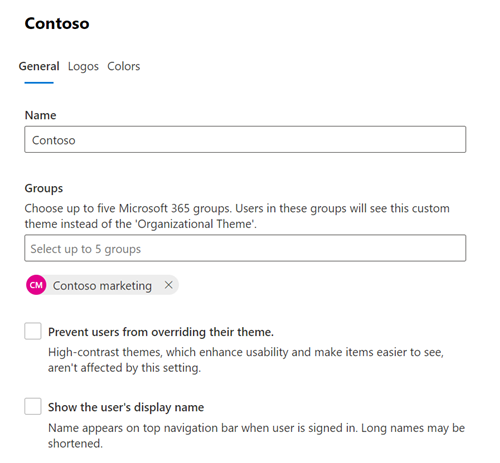
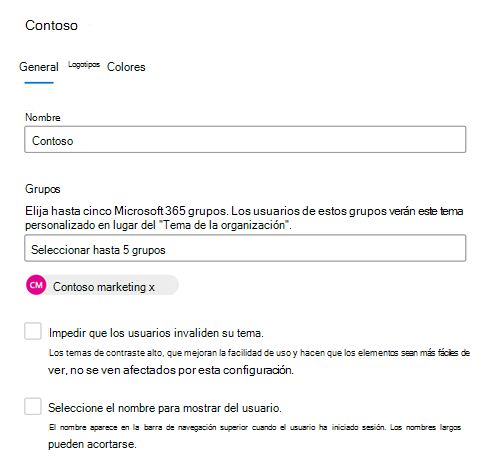
commit translated contents

diff --git a/microsoft-365/compliance/apply-sensitivity-label-automatically.md b/microsoft-365/compliance/apply-sensitivity-label-automatically.md
@@ -16,12 +16,12 @@ search.appverid:
 - MOE150
 - MET150
 description: Al crear una etiqueta de confidencialidad, puede asignar automáticamente una etiqueta a archivos o correos electrónicos, o bien puede pedir a los usuarios que seleccionen la etiqueta recomendada.
-ms.openlocfilehash: 6b74c36707b9fe1fdbe00eb7058554b54ec95755
-ms.sourcegitcommit: 6749455c52b0f98a92f6fffbc2bb86caf3538bd8
+ms.openlocfilehash: 2f873482dc351050a87993420e718f6de87ac218
+ms.sourcegitcommit: 48195345b21b409b175d68acdc25d9f2fc4fc5f1
 ms.translationtype: HT
 ms.contentlocale: es-ES
-ms.lasthandoff: 06/29/2021
-ms.locfileid: "53194774"
+ms.lasthandoff: 06/30/2021
+ms.locfileid: "53227536"
 ---
 # <a name="apply-a-sensitivity-label-to-content-automatically"></a>Aplicar automáticamente una etiqueta de confidencialidad al contenido
 
@@ -44,20 +44,20 @@ Si el contenido se ha etiquetado manualmente, dicha etiqueta nunca se reemplazar
 
 Hay dos métodos diferentes para aplicar automáticamente una etiqueta de confidencialidad en contenido de Microsoft 365:
 
-- **Etiquetado del lado del cliente cuando los usuarios editan documentos o redactan mensajes de correo electrónico (y responden a ellos o los reenvían)**: use una etiqueta configurada para el etiquetado automático para archivos o correos electrónicos (Word, Excel, PowerPoint y Outlook). 
-    
-    Este método permite recomendar una etiqueta a los usuarios, así como aplicar una etiqueta automáticamente. Pero en ambos casos, el usuario decide si acepta o rechaza la etiqueta, para ayudar a garantizar el etiquetado correcto del contenido. Este etiquetado del lado del cliente tiene un retraso mínimo para los documentos porque la etiqueta se puede aplicar incluso antes de que se guarde el documento. Sin embargo, no todas las aplicaciones cliente son compatibles con el etiquetado automático. Esta funcionalidad es compatible con el cliente de etiquetado unificado de Azure Information Protection y [algunas versiones de Office](sensitivity-labels-office-apps.md#support-for-sensitivity-label-capabilities-in-apps). 
-    
+- **Etiquetado del lado del cliente cuando los usuarios editan documentos o redactan mensajes de correo electrónico (y responden a ellos o los reenvían)**: use una etiqueta configurada para el etiquetado automático para archivos o correos electrónicos (Word, Excel, PowerPoint y Outlook).
+
+    Este método permite recomendar una etiqueta a los usuarios, así como aplicar una etiqueta automáticamente. Pero en ambos casos, el usuario decide si acepta o rechaza la etiqueta, para ayudar a garantizar el etiquetado correcto del contenido. Este etiquetado del lado del cliente tiene un retraso mínimo para los documentos porque la etiqueta se puede aplicar incluso antes de que se guarde el documento. Sin embargo, no todas las aplicaciones cliente son compatibles con el etiquetado automático. Esta funcionalidad es compatible con el cliente de etiquetado unificado de Azure Information Protection y [algunas versiones de Office](sensitivity-labels-office-apps.md#support-for-sensitivity-label-capabilities-in-apps).
+
     Para obtener instrucciones de configuración, consulte [Cómo configurar el etiquetado automático en aplicaciones de Office](#how-to-configure-auto-labeling-for-office-apps) en esta página.
 
-- **Etiquetas del lado de servicio cuando el contenido ya está guardado (en SharePoint o en OneDrive) o enviado por correo electrónico (procesado por Exchange Online)**: use una directiva de etiquetado automático. 
-    
+- **Etiquetas del lado de servicio cuando el contenido ya está guardado (en SharePoint o en OneDrive) o enviado por correo electrónico (procesado por Exchange Online)**: use una directiva de etiquetado automático.
+
     También se conoce a este método como etiquetado automático para datos en reposo (documentos en SharePoint y OneDrive) y datos en tránsito (correo electrónico enviado o recibido por Exchange). En el caso de Exchange, no incluye correos electrónicos en reposo (buzones).
-    
+
     Ya que este etiquetado lo aplican los servicios en lugar de las aplicaciones, no tiene que preocuparse por qué aplicaciones tienen los usuarios y qué versión. Por lo tanto, esta funcionalidad está disponible inmediatamente en toda la organización y es adecuada para aplicar las etiquetas a cualquier escala. Las directivas de etiquetado automático no admiten el etiquetado recomendado, ya que el usuario no interactúa con el proceso de etiquetado. En su lugar, el administrador ejecuta las directivas en el modo de simulación para ayudarle a garantizar el etiquetado correcto del contenido antes de aplicar la etiqueta.
-    
+
     Vea las instrucciones de configuración en [Cómo configurar directivas de etiquetado automático para SharePoint, OneDrive y Exchange](#how-to-configure-auto-labeling-policies-for-sharepoint-onedrive-and-exchange) en esta página.
-    
+
     Específico para el etiquetado automático para SharePoint y OneDrive:
     - Son compatibles los archivos de Office para Word, PowerPoint y Excel. El formato Open XML (como .docx y .xlsx) es compatible, pero el formato de Microsoft Office 97-2003 (como .doc y .xls) no lo es.
         - Estos archivos se pueden etiquetar automáticamente en reposo antes o después de que se creen las políticas de etiquetado automático. Los archivos no se pueden etiquetar automáticamente si forman parte de una sesión abierta (el archivo está abierto).
@@ -77,7 +77,7 @@ Hay dos métodos diferentes para aplicar automáticamente una etiqueta de confid
         - Si la etiqueta está configurada para el [cifrado](encryption-sensitivity-labels.md), este cifrado no se aplica.
         - Si la etiqueta está configurada para aplicar [marcas dinámicas](sensitivity-labels-office-apps.md#dynamic-markings-with-variables), tenga en cuenta que esto puede afectar a los nombres de las personas externas a su organización.
     - Cuando la etiqueta aplica cifrado, el [emisor de la administración de derechos y el propietario la administración de derechos](/azure/information-protection/configure-usage-rights#rights-management-issuer-and-rights-management-owner) es la persona que envía el correo electrónico. Actualmente, no existe una forma de establecer un propietario de Rights Manager para todos los mensajes de correo electrónico entrantes que se cifran automáticamente.
-    
+
 
 ## <a name="compare-auto-labeling-for-office-apps-with-auto-labeling-policies"></a>Comparar el etiquetado automático de las aplicaciones de Office con las directivas de etiquetado automático
 
@@ -115,7 +115,7 @@ Para obtener más información sobre las etiquetas principales y las subetiqueta
 
 El etiquetado automático en las aplicaciones de Office para Windows es compatible con el cliente de etiquetado unificado de Azure Information Protection. Para las etiquetas incorporadas en las aplicaciones de Office, esta funcionalidad se encuentra en [diferentes fases de disponibilidad en las distintas aplicaciones](sensitivity-labels-office-apps.md#support-for-sensitivity-label-capabilities-in-apps).
 
-Los ajustes de etiquetado automático para las aplicaciones de Office están disponibles al [crear o editar una etiqueta de confidencialidad](create-sensitivity-labels.md). Asegúrese de que **Archivos y mensajes de correo electrónico** está seleccionada para el ámbito de la etiqueta: 
+Los ajustes de etiquetado automático para las aplicaciones de Office están disponibles al [crear o editar una etiqueta de confidencialidad](create-sensitivity-labels.md). Asegúrese de que **Archivos y mensajes de correo electrónico** está seleccionada para el ámbito de la etiqueta:
 
 ![Opciones de ámbito de etiquetas de confidencialidad para archivos y mensajes de correo electrónico](../media/filesandemails-scope-options-sensitivity-label.png)
 
@@ -142,7 +142,7 @@ Para obtener más información sobre estas opciones, consulte las siguientes ins
 Además, de la misma manera que ocurre con la configuración de directiva DLP, puede elegir si una condición debe detectar todos los tipos de información confidencial o solo uno de ellos. Y para hacer que las condiciones sean más flexibles o complejas, puede agregar [grupos y usar operadores lógicos entre los grupos](data-loss-prevention-policies.md#grouping-and-logical-operators).
 
 > [!NOTE]
-> Las directivas de etiquetado automático que se basan en tipos personalizados de información confidencial solo se aplican al contenido recién creado o modificado en OneDrive y SharePoint, no al contenido existente. 
+> Las directivas de etiquetado automático que se basan en tipos personalizados de información confidencial solo se aplican al contenido recién creado o modificado en OneDrive y SharePoint, no al contenido existente.
 
 ### <a name="configuring-trainable-classifiers-for-a-label"></a>Configurar clasificadores capacitados para una etiqueta
 
@@ -206,7 +206,7 @@ Específico del cliente de etiquetado unificado de Azure Information Protection:
 
 ## <a name="how-to-configure-auto-labeling-policies-for-sharepoint-onedrive-and-exchange"></a>Cómo configurar directivas de etiquetado automático para SharePoint, OneDrive y Exchange
 
-Asegúrese de tener en cuenta los requisitos previos antes de configurar las directivas de etiquetado automático. 
+Asegúrese de tener en cuenta los requisitos previos antes de configurar las directivas de etiquetado automático.
 
 ### <a name="prerequisites-for-auto-labeling-policies"></a>Requisitos previos para las directivas de etiquetado automático
 
@@ -218,7 +218,7 @@ Asegúrese de tener en cuenta los requisitos previos antes de configurar las dir
     - Tiene [etiquetas de confidencialidad habilitadas para los archivos de Office en SharePoint y OneDrive](sensitivity-labels-sharepoint-onedrive-files.md).
     - En el momento en el que se ejecuta la directiva de etiquetado automático, el archivo no debe estar abierto por otro proceso o usuario. Un archivo desprotegido para edición entra en esta categoría.
 
-- Si tiene previsto usar [tipos de información confidencial personalizados](sensitive-information-type-learn-about.md) en lugar de los tipos de confidencialidad integrados: 
+- Si tiene previsto usar [tipos de información confidencial personalizados](sensitive-information-type-learn-about.md) en lugar de los tipos de confidencialidad integrados:
     - Los tipos de información de confidencialidad personalizados solo se aplican al contenido que se agrega o modifica en SharePoint o OneDrive después de aplicar los tipos de información de confidencialidad personalizados.
     - Para probar los nuevos tipos de información confidencial, créelos antes de crear su directiva de etiquetado automático y, después, cree nuevos documentos con datos de ejemplo para probarlos.
 
@@ -254,42 +254,42 @@ Por último, puede usar el modo de simulación para ofrecer una aproximación de
 ### <a name="creating-an-auto-labeling-policy"></a>Creación de una directiva de etiquetado automático
 
 1. En el [Centro de cumplimiento de Microsoft 365](https://compliance.microsoft.com/), desplácese hasta las etiquetas de confidencialidad:
-    
+
     - **Soluciones** > **Protección de la información**
-    
+
     Si no ve esta opción inmediatamente, primero seleccione **Mostrar todo**.
 
 2. Seleccione la pestaña **Etiquetado automático**:
-    
+
     ![Pestaña Etiquetado automático](../media/auto-labeling-tab.png)
-    
+
     > [!NOTE]
     > Si no ve la pestaña **Etiquetado automático**, esta función no se encuentra disponible en su región.
 
 3. Seleccione **+ Crear directiva de etiquetado automático**. Se iniciará el asistente de Nueva Directiva:
-    
-    ![Asistente para Nueva directiva de etiquetado automático ](../media/auto-labeling-wizard.png)
+
+    ![Asistente para Nueva directiva de etiquetado automático](../media/auto-labeling-wizard.png)
 
 4. En la página **Elegir la información a la que quiere aplicar esta etiqueta**: seleccione una de las plantillas, como **Finanzas** o **Privacidad**. Puede refinar la búsqueda con la lista desplegable **Mostrar opciones para**. O bien, seleccione **directiva personalizada** si las plantillas no satisfacen sus necesidades. Seleccione **Siguiente**.
 
 5. En la página **Cambiar el nombre de la directiva de etiquetado automático**: proporcione un nombre único y, opcionalmente, una descripción que ayude a identificar la etiqueta aplicada automáticamente, las ubicaciones y las condiciones que identifican el contenido que se va a etiquetar.
 
 6. En la página **Elegir ubicaciones en las que quiere aplicar la etiqueta**: seleccione y especifique las ubicaciones de Exchange, sitios de SharePoint y OneDrive. Después, seleccione **Siguiente**.
-    
-    ![Asistente de etiquetado automático de la página Elegir ubicaciones ](../media/locations-auto-labeling-wizard.png)
-    
+
+    ![Asistente de etiquetado automático de la página Elegir ubicaciones](../media/locations-auto-labeling-wizard.png)
+
     Debe especificar los sitios individuales de SharePoint y las cuentas de OneDrive. Para OneDrive, la dirección URL de la cuenta de OneDrive de un usuario tiene el siguiente formato: `https://<tenant name>-my.sharepoint.com/personal/<user_name>_<tenant name>_com`
-    
+
     Por ejemplo, para un usuario en el espacio empresarial de Contoso con un nombre de usuario "rsimone": `https://contoso-my.sharepoint.com/personal/rsimone_contoso_onmicrosoft_com`
-    
+
     Para comprobar la sintaxis de su espacio empresarial e identificar las direcciones URL de los usuarios, consulte [Obtener una lista de todas las URL de OneDrive de usuario en su organización](/onedrive/list-onedrive-urls).
 
 7. En la página **Configurar reglas comunes o avanzadas**: mantenga el valor predeterminado de **Reglas comunes** para definir las reglas que identifican el contenido que se debe etiquetar en todas las ubicaciones seleccionadas. Si necesita distintas reglas dependiendo de la ubicación, seleccione **Reglas avanzadas**. Después, seleccione **Siguiente**.
-    
+
     Las reglas usan condiciones que incluyen tipos de información confidencial y opciones de uso compartido:
     - En el caso de los tipos de información confidencial, puede seleccionar tipos de información integrados y personalizados.
     - En las opciones de uso compartido, puede elegir **solo con las personas de mi organización** o **con personas ajenas a mi organización**.
-    
+
     Si la única ubicación es **Exchange** o si selecciona **Reglas avanzadas**, hay condiciones adicionales que puede seleccionar:
     - La dirección IP del remitente es
     - El dominio del destinatario es
@@ -306,19 +306,19 @@ Por último, puede usar el modo de simulación para ofrecer una aproximación de
     - El dominio del remitente es
     - El destinatario es un miembro de
     - El remitente es
-    
+
     Para cada una de estas condiciones, puede especificar excepciones.
-    
+
 8. En función de las opciones anteriores, ahora tendrá la oportunidad de crear nuevas reglas mediante condiciones y excepciones.
-    
+
     Las opciones de configuración para los tipos de información confidencial son las mismas que las seleccionadas para el etiquetado automático para las aplicaciones de Office. Si necesita más información, consulte [Configuración de tipos de información confidencial para una etiqueta](#configuring-sensitive-info-types-for-a-label).
-    
+
     Cuando haya definido todas las reglas que necesita y confirmado que su estado está activo, seleccione **Siguiente** para continuar y elegir una etiqueta de aplicación automática.
 
 11. En la página **Elegir una etiqueta para aplicarla automáticamente**: seleccione **+ Elegir una etiqueta**, seleccione una etiqueta del panel **Elegir una etiqueta de confidencialidad** y seleccione **Siguiente**.
 
-12. En la página **Decidir si quiere probar la directiva ahora o más tarde**: seleccione **Ejecutar directiva en modo de simulación** si ya está listo para ejecutar la directiva de etiquetado automático ahora, en el modo de simulación. En caso contrario, seleccione **Dejar la directiva desactivada**. Seleccione **Siguiente**: 
-    
+12. En la página **Decidir si quiere probar la directiva ahora o más tarde**: seleccione **Ejecutar directiva en modo de simulación** si ya está listo para ejecutar la directiva de etiquetado automático ahora, en el modo de simulación. En caso contrario, seleccione **Dejar la directiva desactivada**. Seleccione **Siguiente**:
+
     ![Pruebe el asistente de etiquetado automático de directivas.](../media/simulation-mode-auto-labeling-wizard.png)
 
 13. En la página **Resumen**: revise la configuración de la directiva de etiquetado automático, realice los cambios que sean necesarios y finalice el asistente.
@@ -330,9 +330,9 @@ Puede modificar la directiva directamente desde esta interfaz:
 - Para una directiva en la sección **Desactivado**, seleccione el botón **Editar directiva**.
 
 - Para las directivas en la sección **Simulación**, seleccione la opción **Editar directiva** en la parte superior de la página, en cualquiera de las pestañas:
-    
+
     ![Opción editar directiva de etiquetado automático](../media/auto-labeling-edit.png)
-    
+
     Cuando esté listo para ejecutar la directiva sin simulación, seleccione la opción **Activar directiva**.
 
 Las directivas automáticas se ejecutan de forma continua hasta que se eliminan. Por ejemplo, los documentos nuevos y modificados se incluirán en la configuración de directivas actual.
@@ -350,12 +350,12 @@ Puede usar el [Centro de seguridad y cumplimiento de PowerShell](/powershell/exc
 
 Antes de ejecutar los comandos de PowerShell, primero debe [conectarse a PowerShell del Centro de seguridad y cumplimiento](/powershell/exchange/connect-to-scc-powershell).
 
-Crear una nueva directiva de etiquetado automático: 
+Crear una nueva directiva de etiquetado automático:
 
 ```powershell
 New-AutoSensitivityLabelPolicy -Name <AutoLabelingPolicyName> -SharePointLocation "<SharePointSiteLocation>" -ApplySensitivityLabel <Label> -Mode TestWithoutNotifications
 ```
-Este comando crea una directiva de etiquetado automático para un sitio de SharePoint que especifique. Para una ubicación de OneDrive use en su lugar el parámetro *OneDriveLocation*. 
+Este comando crea una directiva de etiquetado automático para un sitio de SharePoint que especifique. Para una ubicación de OneDrive use en su lugar el parámetro *OneDriveLocation*.
 
 Para agregar sitios adicionales a una directiva de etiquetado automático existente:
 
@@ -389,11 +389,11 @@ Para obtener más información sobre los cmdlets de PowerShell que son compatibl
 Aunque el etiquetado automático es una de las formas más eficaces de clasificar, etiquetar y proteger los archivos de Office que posee su organización, es posible que pueda complementarlo con cualquiera de estos métodos adicionales para aumentar el alcance del etiquetado:
 
 - Cuando use el cliente de etiquetado unificado [Azure Information Protection](/azure/information-protection/rms-client/aip-clientv2):
-    
+
     - En el caso de los archivos en almacenes de datos locales, como recursos compartidos de red y bibliotecas de SharePoint Server: use el [detector](/azure/information-protection/deploy-aip-scanner) para detectar información confidencial en estos archivos y etiquetarlos correctamente. Si tiene previsto migrar o cargar estos archivos en SharePoint en Microsoft 365, use el detector para etiquetar los archivos antes de moverlos a la nube.
-    
+
     - Si ha usado otra solución de etiquetado antes de usar etiquetas de confidencialidad: use PowerShell y [una configuración avanzada para reutilizar etiquetas](/azure/information-protection/rms-client/clientv2-admin-guide-customizations#migrate-labels-from-secure-islands-and-other-labeling-solutions) de estas soluciones.
 
-- Fomente el [etiquetado manual](https://support.microsoft.com/office/apply-sensitivity-labels-to-your-files-and-email-in-office-2f96e7cd-d5a4-403b-8bd7-4cc636bae0f9) después de dar a los usuarios aprendizaje sobre qué etiquetas de confidencialidad se aplicarán. Cuando esté seguro de que los usuarios entienden qué etiqueta aplicar, considere la posibilidad de configurar una etiqueta predeterminada y un etiquetado obligatorio como [configuración de directiva](sensitivity-labels.md#what-label-policies-can-do). 
+- Fomente el [etiquetado manual](https://support.microsoft.com/office/apply-sensitivity-labels-to-your-files-and-email-in-office-2f96e7cd-d5a4-403b-8bd7-4cc636bae0f9) después de dar a los usuarios aprendizaje sobre qué etiquetas de confidencialidad se aplicarán. Cuando esté seguro de que los usuarios entienden qué etiqueta aplicar, considere la posibilidad de configurar una etiqueta predeterminada y un etiquetado obligatorio como [configuración de directiva](sensitivity-labels.md#what-label-policies-can-do).
 
 Además, plantéese [marcar nuevos archivos como confidenciales de forma predeterminada](/sharepoint/sensitive-by-default) en SharePoint para evitar que los invitados accedan a los archivos recién agregados hasta que al menos una directiva DLP examine el contenido del archivo.

diff --git a/microsoft-365/compliance/apply-retention-labels-automatically.md b/microsoft-365/compliance/apply-retention-labels-automatically.md
@@ -17,12 +17,12 @@ search.appverid:
 - MOE150
 - MET150
 description: Cree etiquetas de retención y directivas de etiquetado automático para aplicar etiquetas de manera automática y así conservar lo que necesita y eliminar lo que no
-ms.openlocfilehash: 0324f988402d407e30d10a725aa5acebb0a69964
-ms.sourcegitcommit: b09aee96a1e2266b33ba81dfe497f24c5300bb56
+ms.openlocfilehash: fa1d88271593f0278266004d4a170a807e1cbc32
+ms.sourcegitcommit: 2266c2da090bc9a6dc1e01dea07f26901d20d57b
 ms.translationtype: HT
 ms.contentlocale: es-ES
-ms.lasthandoff: 06/06/2021
-ms.locfileid: "52788408"
+ms.lasthandoff: 06/30/2021
+ms.locfileid: "53222687"
 ---
 # <a name="automatically-apply-a-retention-label-to-retain-or-delete-content"></a>Aplicar una etiqueta de retención automáticamente para conservar o eliminar contenido
 
@@ -164,7 +164,7 @@ Aspectos que debe tener en cuenta al usar palabras clave o propiedades utilizabl
 
 - Los elementos nuevos, modificados y existentes se etiquetarán automáticamente para SharePoint, OneDrive y Exchange.
 
-- Para SharePoint, las propiedades rastreadas y las propiedades personalizadas no son compatibles con estas consultas KQL y solo debe usar propiedades administradas predefinidas. Sin embargo, puede usar las asignaciones en el nivel de espacio empresarial con las propiedades administradas predefinidas que se habilitan como refinadores de forma predeterminada (RefinableDate00-19, RefinableString00-99, RefinableInt00-49, RefinableDecimals00-09 y RefinableDouble00-09). Para obtener más información, vea [Información general de propiedades administradas y rastreadas en SharePoint Server](/SharePoint/technical-reference/crawled-and-managed-properties-overview) y para obtener instrucciones, consulte [Crear una nueva propiedad administrada](/sharepoint/manage-search-schema#create-a-new-managed-property).
+- Para SharePoint, las propiedades rastreadas y las propiedades personalizadas no son compatibles con estas consultas de KQL y solo debe usar propiedades administradas predefinidas para documentos. Sin embargo, puede usar las asignaciones en el nivel de espacio empresarial con las propiedades administradas predefinidas que se habilitan como refinadores de forma predeterminada (RefinableDate00-19, RefinableString00-99, RefinableInt00-49, RefinableDecimals00-09 y RefinableDouble00-09). Para obtener más información, vea [Información general de propiedades administradas y rastreadas en SharePoint Server](/SharePoint/technical-reference/crawled-and-managed-properties-overview) y para obtener instrucciones, consulte [Crear una nueva propiedad administrada](/sharepoint/manage-search-schema#create-a-new-managed-property).
 
 - Si asigna una propiedad personalizada a una de las propiedades de refinador, espere 24 horas antes de usarla en la consulta de KQL para una etiqueta de retención.
 
